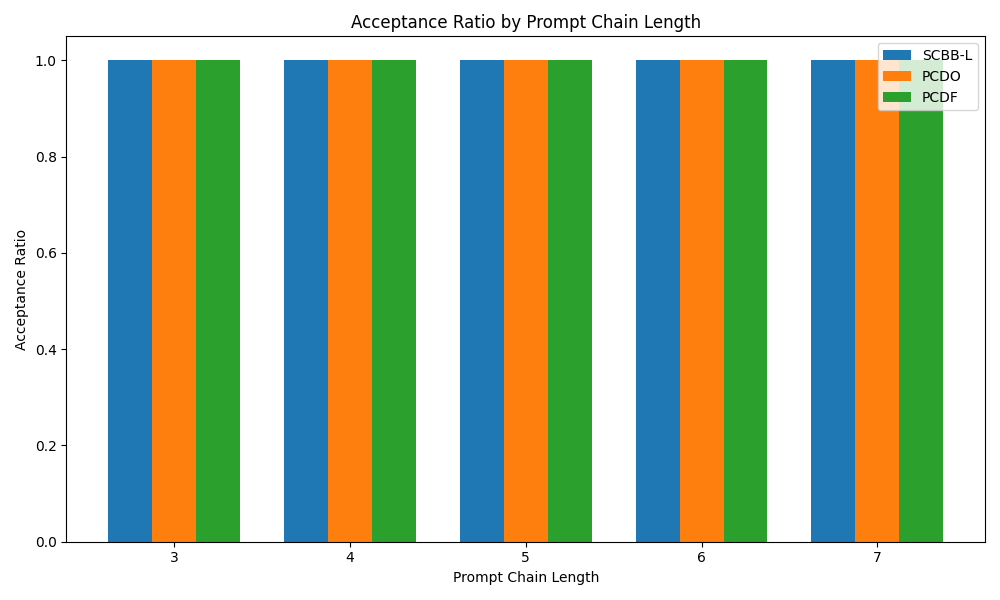
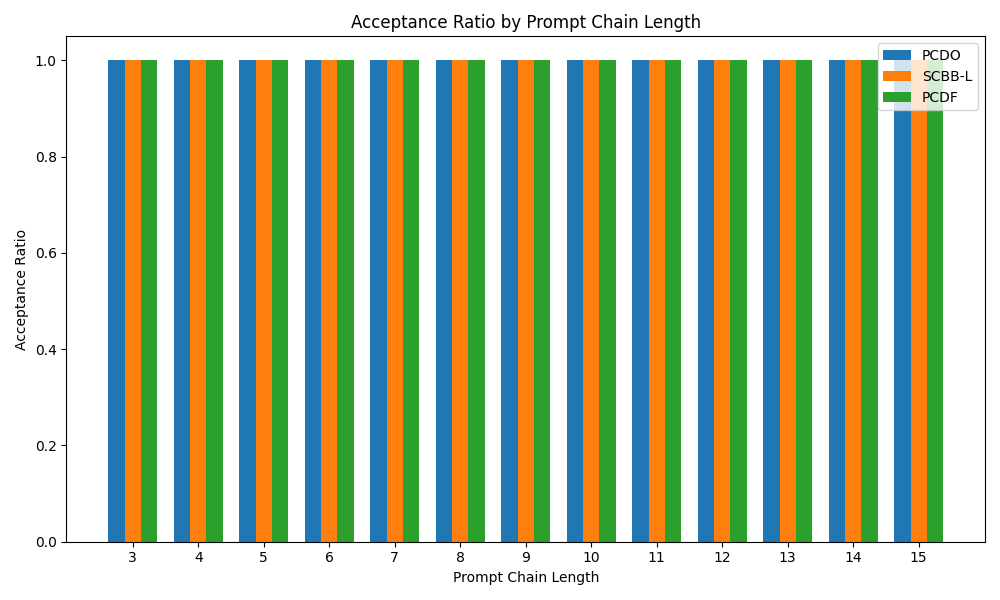
mvp_3

diff --git a/main.py b/main.py
@@ -6,22 +6,26 @@ from collections import defaultdict
 import matplotlib.pyplot as plt
 
 # --- Constants and Parameters ---
-NUM_NODES = 20  # NY-20 topology
+NUM_NODES = 20
 NUM_AIGC_SERVERS = 4
 NUM_PEPS_RANGE = (1, 4)
-PES_CAPACITIES = [1000, 1250, 1500, 1750, 2000]  # CPU cores
+PES_CAPACITIES = [1000, 1250, 1500, 1750, 2000]
 MAX_PROMPT_TYPES_PER_PES = 4
-LINK_BANDWIDTHS = [10, 20, 30, 40]  # Gbps
-LINK_WEIGHTS = (5, 20)  # Range for link weights
-PROMPT_CHAIN_LENGTHS = (3, 7)  # 3 to 7 prompts
-PROMPT_COMP_DEMAND = (0.5, 0.8)  # CPU cores
-VPEP_COMP_DEMAND = 0.6  # CPU cores
-BANDWIDTH_DEMAND = [1, 2, 3, 4, 5]  # Mbps
-COMP_LATENCY_PER_CORE = 0.01  # ms/CPU core
-PEP_VERIFY_LATENCY = 0.5  # ms
-VPEP_VERIFY_LATENCY = 0.02  # ms/Mbps
-NUM_NETWORKS = 80
-NUM_AI_SRS_PER_NETWORK = 4000
+LINK_BANDWIDTHS = [10, 20, 30, 40]
+LINK_WEIGHTS = (5, 20)
+
+MIN_PROMPT_CHAIN_LENGTH = 3
+MAX_PROMPT_CHAIN_LENGTH = 15
+PROMPT_CHAIN_LENGTHS = (MIN_PROMPT_CHAIN_LENGTH, MAX_PROMPT_CHAIN_LENGTH)
+
+PROMPT_COMP_DEMAND = (0.5, 0.8)
+VPEP_COMP_DEMAND = 0.6
+BANDWIDTH_DEMAND = [1, 2, 3, 4, 5]
+COMP_LATENCY_PER_CORE = 0.01
+PEP_VERIFY_LATENCY = 0.5
+VPEP_VERIFY_LATENCY = 0.02
+NUM_NETWORKS = 10
+NUM_AI_SRS_PER_NETWORK = 1000
 
 # --- Helper Functions ---
 def generate_network():
@@ -152,7 +156,7 @@ def scbb_l(G, S, Q, X, ai_sr):
                                     break
         
         if not temp_k:
-            return None, float('inf'), {}
+            return None, float('inf'), {}, 0, 0, remaining_capacity
         
         for idx, p in enumerate(temp_k):
             deployment[p] = best_n
@@ -191,12 +195,14 @@ def scbb_l(G, S, Q, X, ai_sr):
             continue
     
     if best_x is None:
-        return None, float('inf'), deployment
+        return None, float('inf'), deployment, 0, 0, remaining_capacity
     
     For_Path.extend(final_path[1:] if final_path[0] == n_last else final_path)
     deployment[PrC[-1]] = best_x
     
     total_latency = 0
+    verification_latency = 0
+    num_verification_steps = 0
     for idx, p in enumerate(PrC):
         n = deployment[p]
         total_latency += c_v[idx] * COMP_LATENCY_PER_CORE
@@ -219,8 +225,10 @@ def scbb_l(G, S, Q, X, ai_sr):
             else:
                 verify_latency = VPEP_VERIFY_LATENCY * d_v[idx-1]
             total_latency += trans_latency + verify_latency
+            verification_latency += verify_latency
+            num_verification_steps += 1
     
-    return For_Path, total_latency, deployment
+    return For_Path, total_latency, deployment, verification_latency, num_verification_steps, remaining_capacity
 
 # --- PCDO Implementation (No ZT Verification) ---
 def pcdo(G, S, X, ai_sr):
@@ -258,7 +266,7 @@ def pcdo(G, S, X, ai_sr):
                 continue
         
         if best_n is None:
-            return None, float('inf'), deployment
+            return None, float('inf'), deployment, 0, 0, remaining_capacity
         
         deployment[p] = best_n
         remaining_capacity[best_n] -= c_v[idx]
@@ -280,7 +288,7 @@ def pcdo(G, S, X, ai_sr):
             continue
     
     if best_x is None:
-        return None, float('inf'), deployment
+        return None, float('inf'), deployment, 0, 0, remaining_capacity
     
     For_Path.extend(final_path[1:] if final_path[0] == current else final_path)
     deployment[PrC[-1]] = best_x
@@ -297,13 +305,13 @@ def pcdo(G, S, X, ai_sr):
             trans_latency = compute_transmission_latency(G, path, d_v[idx-1], BW)
             total_latency += trans_latency
     
-    return For_Path, total_latency, deployment
+    return For_Path, total_latency, deployment, 0, 0, remaining_capacity
 
 # --- PCDF Implementation (PCDO + Least-Latency Verification) ---
 def pcdf(G, S, Q, X, ai_sr):
-    For_Path, _, deployment = pcdo(G, S, X, ai_sr)
+    For_Path, _, deployment, _, _, remaining_capacity = pcdo(G, S, X, ai_sr)
     if For_Path is None:
-        return None, float('inf')
+        return None, float('inf'), 0, 0
     
     PrC = ai_sr['PrC'][1:]
     d_v = ai_sr['d_v'][1:]
@@ -312,6 +320,8 @@ def pcdf(G, S, Q, X, ai_sr):
     
     new_path = [For_Path[0]]
     total_latency = 0
+    verification_latency = 0
+    num_verification_steps = 0
     for idx, p in enumerate(PrC):
         total_latency += c_v[idx] * COMP_LATENCY_PER_CORE
         if idx == 0:
@@ -337,11 +347,15 @@ def pcdf(G, S, Q, X, ai_sr):
             
             if pep_latencies and min(pep_latencies, key=lambda x: x[0])[0] < vpep_latency:
                 latency, path = min(pep_latencies, key=lambda x: x[0])
+                verify_latency = PEP_VERIFY_LATENCY
             else:
                 latency = vpep_latency
+                verify_latency = VPEP_VERIFY_LATENCY * d_v[idx-1]
                 path = path_direct
             
             total_latency += latency
+            verification_latency += verify_latency
+            num_verification_steps += 1
             new_path.extend(path[1:] if path[0] == new_path[-1] else path)
     
     current = new_path[-1]
@@ -351,17 +365,25 @@ def pcdf(G, S, Q, X, ai_sr):
             trans_direct = compute_transmission_latency(G, path, d_v[-1], BW)
             vpep_latency = VPEP_VERIFY_LATENCY * d_v[-1] + trans_direct
             total_latency += vpep_latency
+            verification_latency += VPEP_VERIFY_LATENCY * d_v[-1]
+            num_verification_steps += 1
             break
     
-    return new_path, total_latency
+    return new_path, total_latency, verification_latency, num_verification_steps
 
 # --- Main Experiment ---
 def run_experiment():
     # Results dictionary: {method: {length: {metric: value}}}
     results = {
-        'SCBB-L': {length: {'latency': [], 'accepted': 0, 'total': 0, 'runtime': []} for length in range(3, 8)},
-        'PCDO': {length: {'latency': [], 'accepted': 0, 'total': 0, 'runtime': []} for length in range(3, 8)},
-        'PCDF': {length: {'latency': [], 'accepted': 0, 'total': 0, 'runtime': []} for length in range(3, 8)}
+        'SCBB-L': {length: {'latency': [], 'accepted': 0, 'total': 0, 'runtime': [], 
+                             'verification_latency': [], 'verification_steps': [], 
+                             'path_length': [], 'resource_utilization': []} for length in range(MIN_PROMPT_CHAIN_LENGTH, MAX_PROMPT_CHAIN_LENGTH+1)},
+        'PCDO': {length: {'latency': [], 'accepted': 0, 'total': 0, 'runtime': [], 
+                          'verification_latency': [], 'verification_steps': [], 
+                          'path_length': [], 'resource_utilization': []} for length in range(MIN_PROMPT_CHAIN_LENGTH, MAX_PROMPT_CHAIN_LENGTH+1)},
+        'PCDF': {length: {'latency': [], 'accepted': 0, 'total': 0, 'runtime': [], 
+                          'verification_latency': [], 'verification_steps': [], 
+                          'path_length': [], 'resource_utilization': []} for length in range(MIN_PROMPT_CHAIN_LENGTH, MAX_PROMPT_CHAIN_LENGTH+1)}
     }
     
     for network_idx in range(NUM_NETWORKS):
@@ -376,41 +398,76 @@ def run_experiment():
             
             # Run SCBB-L
             start_time = time.time()
-            path, latency, _ = scbb_l(G, S, Q, X, ai_sr)
+            path, latency, _, verif_latency, verif_steps, remaining_capacity = scbb_l(G, S, Q, X, ai_sr)
             runtime = time.time() - start_time
             results['SCBB-L'][chain_length]['total'] += 1
             results['SCBB-L'][chain_length]['runtime'].append(runtime)
             if path is not None:
                 results['SCBB-L'][chain_length]['accepted'] += 1
                 results['SCBB-L'][chain_length]['latency'].append(latency)
+                results['SCBB-L'][chain_length]['verification_latency'].append(verif_latency)
+                results['SCBB-L'][chain_length]['verification_steps'].append(verif_steps)
+                results['SCBB-L'][chain_length]['path_length'].append(len(path) - 1)  # Number of hops
+                # Compute resource utilization efficiency (coefficient of variation)
+                used_capacity = [G.nodes[n]['capacity'] - remaining_capacity[n] for n in S]
+                mean_capacity = np.mean(used_capacity) if used_capacity else 0
+                std_capacity = np.std(used_capacity) if used_capacity else 0
+                cv = std_capacity / mean_capacity if mean_capacity > 0 else float('inf')
+                results['SCBB-L'][chain_length]['resource_utilization'].append(cv)
             
             # Run PCDO
             start_time = time.time()
-            path, latency, _ = pcdo(G, S, X, ai_sr)
+            path, latency, _, verif_latency, verif_steps, remaining_capacity = pcdo(G, S, X, ai_sr)
             runtime = time.time() - start_time
             results['PCDO'][chain_length]['total'] += 1
             results['PCDO'][chain_length]['runtime'].append(runtime)
             if path is not None:
                 results['PCDO'][chain_length]['accepted'] += 1
                 results['PCDO'][chain_length]['latency'].append(latency)
+                results['PCDO'][chain_length]['verification_latency'].append(verif_latency)
+                results['PCDO'][chain_length]['verification_steps'].append(verif_steps)
+                results['PCDO'][chain_length]['path_length'].append(len(path) - 1)
+                used_capacity = [G.nodes[n]['capacity'] - remaining_capacity[n] for n in S]
+                mean_capacity = np.mean(used_capacity) if used_capacity else 0
+                std_capacity = np.std(used_capacity) if used_capacity else 0
+                cv = std_capacity / mean_capacity if mean_capacity > 0 else float('inf')
+                results['PCDO'][chain_length]['resource_utilization'].append(cv)
             
             # Run PCDF
             start_time = time.time()
-            path, latency = pcdf(G, S, Q, X, ai_sr)
+            path, latency, verif_latency, verif_steps = pcdf(G, S, Q, X, ai_sr)
             runtime = time.time() - start_time
             results['PCDF'][chain_length]['total'] += 1
             results['PCDF'][chain_length]['runtime'].append(runtime)
             if path is not None:
                 results['PCDF'][chain_length]['accepted'] += 1
                 results['PCDF'][chain_length]['latency'].append(latency)
+                results['PCDF'][chain_length]['verification_latency'].append(verif_latency)
+                results['PCDF'][chain_length]['verification_steps'].append(verif_steps)
+                results['PCDF'][chain_length]['path_length'].append(len(path) - 1)
+                # Resource utilization: re-run pcdo to get remaining capacity
+                _, _, _, _, _, remaining_capacity = pcdo(G, S, X, ai_sr)
+                used_capacity = [G.nodes[n]['capacity'] - remaining_capacity[n] for n in S]
+                mean_capacity = np.mean(used_capacity) if used_capacity else 0
+                std_capacity = np.std(used_capacity) if used_capacity else 0
+                cv = std_capacity / mean_capacity if mean_capacity > 0 else float('inf')
+                results['PCDF'][chain_length]['resource_utilization'].append(cv)
     
     # Compute average metrics for each method and chain length
-    metrics = {'latency': {}, 'acceptance_ratio': {}, 'runtime': {}}
+    metrics = {
+        'latency': {}, 'acceptance_ratio': {}, 'runtime': {}, 
+        'verification_overhead': {}, 'verification_steps': {},
+        'path_length': {}, 'resource_utilization': {}
+    }
     for method in results:
         metrics['latency'][method] = []
         metrics['acceptance_ratio'][method] = []
         metrics['runtime'][method] = []
-        for length in range(3, 8):
+        metrics['verification_overhead'][method] = []
+        metrics['verification_steps'][method] = []
+        metrics['path_length'][method] = []
+        metrics['resource_utilization'][method] = []
+        for length in range(MIN_PROMPT_CHAIN_LENGTH, MAX_PROMPT_CHAIN_LENGTH+1):
             data = results[method][length]
             # Average latency
             avg_latency = np.mean(data['latency']) if data['latency'] else float('inf')
@@ -421,20 +478,40 @@ def run_experiment():
             # Average runtime (in ms)
             avg_runtime = np.mean(data['runtime']) * 1000 if data['runtime'] else float('inf')
             metrics['runtime'][method].append(avg_runtime)
+            # Verification overhead ratio
+            verif_overhead = []
+            for lat, verif_lat in zip(data['latency'], data['verification_latency']):
+                if lat > 0:
+                    verif_overhead.append(verif_lat / lat)
+            avg_verif_overhead = np.mean(verif_overhead) if verif_overhead else 0
+            metrics['verification_overhead'][method].append(avg_verif_overhead)
+            # Average number of verification steps
+            avg_verif_steps = np.mean(data['verification_steps']) if data['verification_steps'] else 0
+            metrics['verification_steps'][method].append(avg_verif_steps)
+            # Average path length (hops)
+            avg_path_length = np.mean(data['path_length']) if data['path_length'] else float('inf')
+            metrics['path_length'][method].append(avg_path_length)
+            # Average resource utilization efficiency (coefficient of variation)
+            avg_resource_util = np.mean(data['resource_utilization']) if data['resource_utilization'] else float('inf')
+            metrics['resource_utilization'][method].append(avg_resource_util)
     
     # Print final results
     print("\nFinal Results:")
     for method in results:
         print(f"{method}:")
-        for length in range(3, 8):
+        for length in range(MIN_PROMPT_CHAIN_LENGTH, MAX_PROMPT_CHAIN_LENGTH+1):
             print(f"  Chain Length {length}:")
-            print(f"    Average Latency: {metrics['latency'][method][length-3]:.4f} ms")
-            print(f"    Acceptance Ratio: {metrics['acceptance_ratio'][method][length-3]:.4f}")
-            print(f"    Average Runtime: {metrics['runtime'][method][length-3]:.4f} ms")
+            print(f"    Average Latency: {metrics['latency'][method][length-MIN_PROMPT_CHAIN_LENGTH]:.4f} ms")
+            print(f"    Acceptance Ratio: {metrics['acceptance_ratio'][method][length-MIN_PROMPT_CHAIN_LENGTH]:.4f}")
+            print(f"    Average Runtime: {metrics['runtime'][method][length-MIN_PROMPT_CHAIN_LENGTH]:.4f} ms")
+            print(f"    Verification Overhead Ratio: {metrics['verification_overhead'][method][length-MIN_PROMPT_CHAIN_LENGTH]:.4f}")
+            print(f"    Average Verification Steps: {metrics['verification_steps'][method][length-MIN_PROMPT_CHAIN_LENGTH]:.2f}")
+            print(f"    Average Path Length (Hops): {metrics['path_length'][method][length-MIN_PROMPT_CHAIN_LENGTH]:.2f}")
+            print(f"    Resource Utilization Efficiency (CV): {metrics['resource_utilization'][method][length-MIN_PROMPT_CHAIN_LENGTH]:.4f}")
     
     # Generate visualizations
-    chain_lengths = list(range(3, 8))
-    methods = ['SCBB-L', 'PCDO', 'PCDF']
+    chain_lengths = list(range(MIN_PROMPT_CHAIN_LENGTH, MAX_PROMPT_CHAIN_LENGTH+1))
+    methods = ['PCDO', 'SCBB-L', 'PCDF']
     bar_width = 0.25
     index = np.arange(len(chain_lengths))
     
@@ -475,6 +552,58 @@ def run_experiment():
     plt.legend()
     plt.tight_layout()
     plt.savefig('runtime_comparison.png')
+    plt.close()
+    
+    # Plot 4: Verification Overhead Ratio
+    plt.figure(figsize=(10, 6))
+    for i, method in enumerate(methods):
+        plt.bar(index + i * bar_width, metrics['verification_overhead'][method], bar_width, label=method)
+    plt.xlabel('Prompt Chain Length')
+    plt.ylabel('Verification Overhead Ratio')
+    plt.title('Verification Overhead Ratio by Prompt Chain Length')
+    plt.xticks(index + bar_width, chain_lengths)
+    plt.legend()
+    plt.tight_layout()
+    plt.savefig('verification_overhead_comparison.png')
+    plt.close()
+    
+    # Plot 5: Average Number of Verification Steps
+    plt.figure(figsize=(10, 6))
+    for i, method in enumerate(methods):
+        plt.bar(index + i * bar_width, metrics['verification_steps'][method], bar_width, label=method)
+    plt.xlabel('Prompt Chain Length')
+    plt.ylabel('Average Verification Steps')
+    plt.title('Average Number of Verification Steps by Prompt Chain Length')
+    plt.xticks(index + bar_width, chain_lengths)
+    plt.legend()
+    plt.tight_layout()
+    plt.savefig('verification_steps_comparison.png')
+    plt.close()
+    
+    # Plot 6: Average Path Length (Hops)
+    plt.figure(figsize=(10, 6))
+    for i, method in enumerate(methods):
+        plt.bar(index + i * bar_width, metrics['path_length'][method], bar_width, label=method)
+    plt.xlabel('Prompt Chain Length')
+    plt.ylabel('Average Path Length (Hops)')
+    plt.title('Average Path Length by Prompt Chain Length')
+    plt.xticks(index + bar_width, chain_lengths)
+    plt.legend()
+    plt.tight_layout()
+    plt.savefig('path_length_comparison.png')
+    plt.close()
+    
+    # Plot 7: Resource Utilization Efficiency (Coefficient of Variation)
+    plt.figure(figsize=(10, 6))
+    for i, method in enumerate(methods):
+        plt.bar(index + i * bar_width, metrics['resource_utilization'][method], bar_width, label=method)
+    plt.xlabel('Prompt Chain Length')
+    plt.ylabel('Resource Utilization Efficiency (CV)')
+    plt.title('Resource Utilization Efficiency by Prompt Chain Length')
+    plt.xticks(index + bar_width, chain_lengths)
+    plt.legend()
+    plt.tight_layout()
+    plt.savefig('resource_utilization_comparison.png')
     plt.close()
 
 if __name__ == "__main__":
